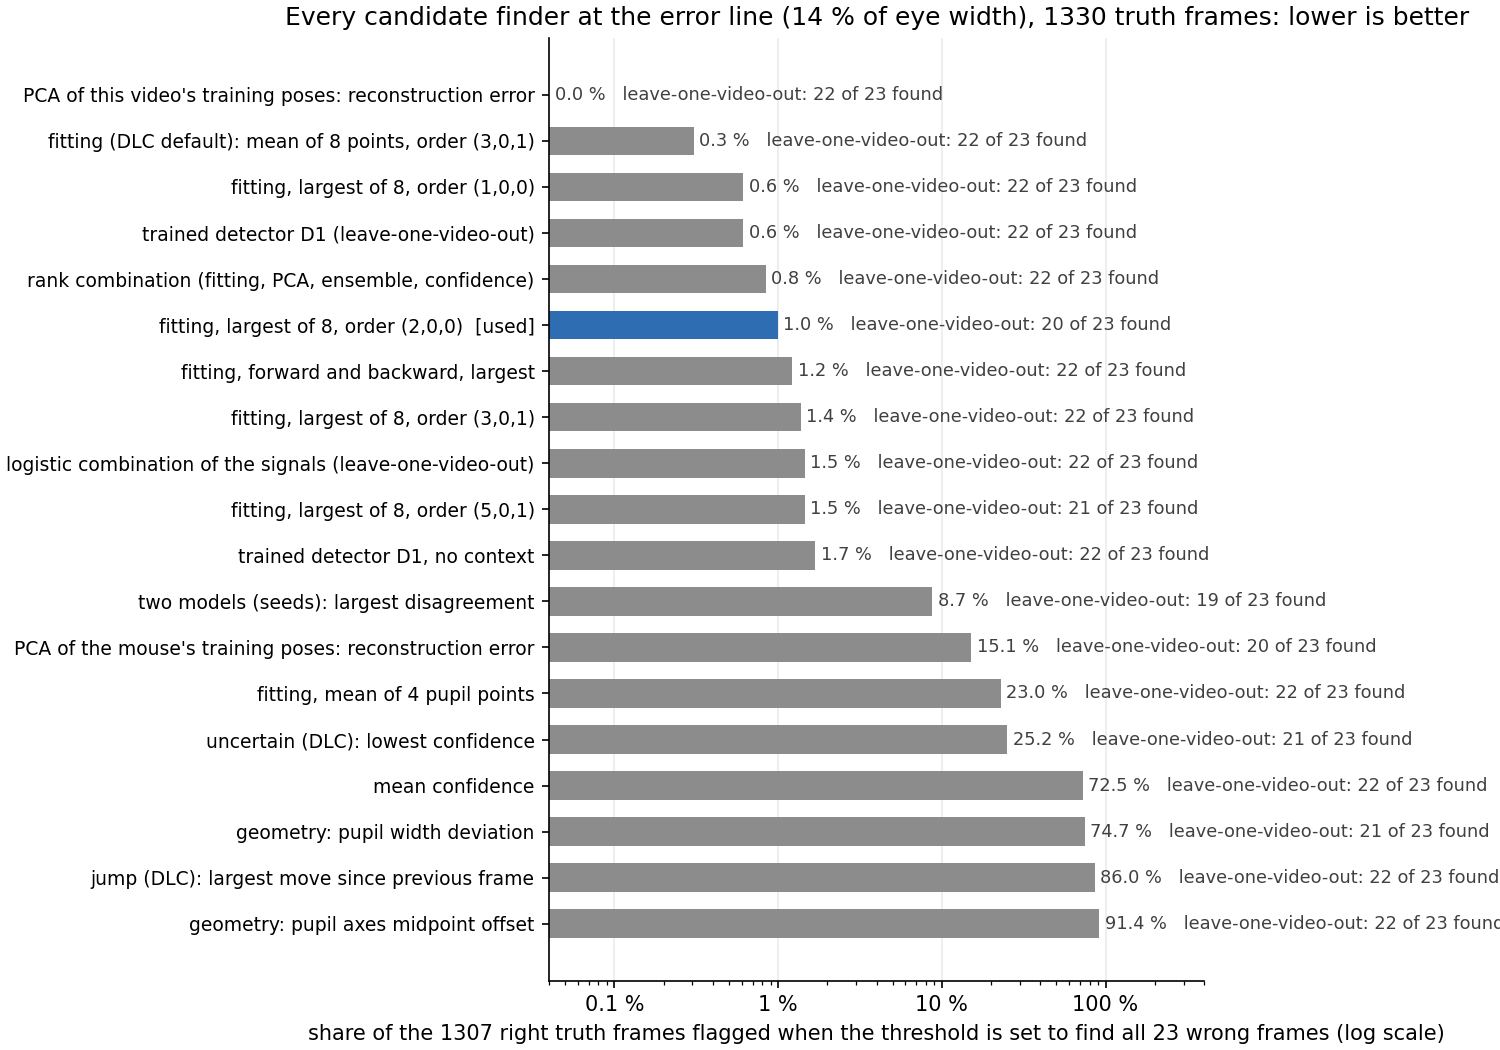
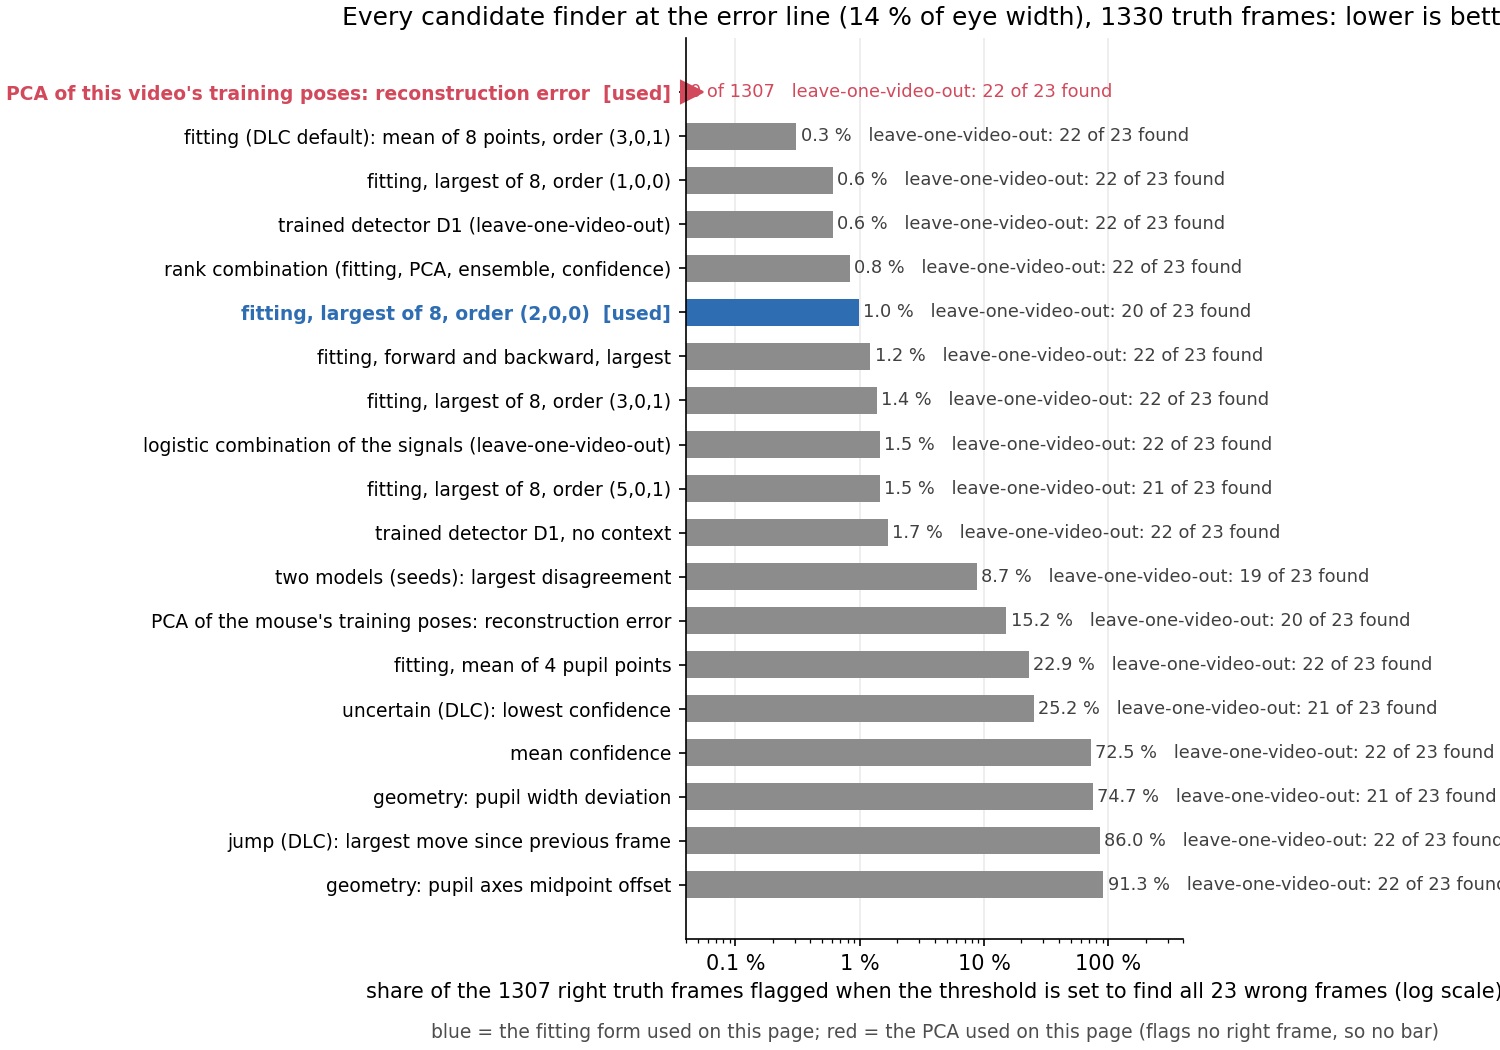
Figure 9-3: mark the PCA row as used as well

diff --git a/report/index.html b/report/index.html
@@ -78,7 +78,7 @@ math[display="block"]{margin:10px 0 6px;text-align:left;overflow-x:auto;max-widt
 
 <header>
   <h1><span lang="zh">小鼠眼睛关键点追踪：做了什么，结果是什么</span><span lang="en">Mouse eye keypoint tracking: what was done and what came out</span></h1>
-  <p class="muted small">Zhiheng Li (University of Minnesota), Kaiwen Sheng (Stanford) · <span lang="zh">页面生成时间</span><span lang="en">page built</span> 2026-10-31 14:06 · <a href="https://github.com/ZhihengLi0/mouse-behavior-tracking">GitHub: ZhihengLi0/mouse-behavior-tracking</a></p>
+  <p class="muted small">Zhiheng Li (University of Minnesota), Kaiwen Sheng (Stanford) · <span lang="zh">页面生成时间</span><span lang="en">page built</span> 2026-10-31 14:08 · <a href="https://github.com/ZhihengLi0/mouse-behavior-tracking">GitHub: ZhihengLi0/mouse-behavior-tracking</a></p>
 
   <div class="text" lang="zh">
     <p><b>任务：</b>用 DeepLabCut 在小鼠眼睛视频的每一帧上找 8 个点：瞳孔上、下、左、右，上眼睑、下眼睑，鼻侧眼角、颞侧眼角。由这 8 个点得到瞳孔大小、眼睛睁开程度和眨眼，之后与脑记录对齐。</p>
@@ -1117,8 +1117,8 @@ math[display="block"]{margin:10px 0 6px;text-align:left;overflow-x:auto;max-widt
   </div>
   <figure>
     <div class="figbox wide"><img src="assets/fig_finders_all_signals.png" alt="Every candidate finder at the error line: share of right truth frames flagged when all 23 wrong frames are found"></div>
-    <figcaption lang="zh"><span class="tag">图 9-3：</span>比过的每一种信号，阈值定到刚好找全 23 帧错帧时，1307 帧对的帧里被标出的比例（对数刻度），越靠左越好；右侧文字是轮流留出一个视频、用其余 18 个定阈值时找到的错帧数。蓝 = 本页用的 fitting 形式。PCA 一帧都不误标，所以没有柱子。</figcaption>
-    <figcaption lang="en"><span class="tag">Figure 9-3:</span>Every signal compared: the share of the 1307 right truth frames flagged when its threshold is set to find all 23 wrong frames (log scale), further left is better; the text gives the wrong frames found when each video is held out in turn and the threshold set on the other 18. Blue = the fitting form used on this page. The PCA flags no right frame, hence no bar.</figcaption>
+    <figcaption lang="zh"><span class="tag">图 9-3：</span>比过的每一种信号，阈值定到刚好找全 23 帧错帧时，1307 帧对的帧里被标出的比例（对数刻度），越靠左越好；右侧文字是轮流留出一个视频、用其余 18 个定阈值时找到的错帧数。蓝 = 本页用的 fitting 形式，红 = 本页用的 PCA，它一帧都不误标，所以没有柱子，只有一个标记。</figcaption>
+    <figcaption lang="en"><span class="tag">Figure 9-3:</span>Every signal compared: the share of the 1307 right truth frames flagged when its threshold is set to find all 23 wrong frames (log scale), further left is better; the text gives the wrong frames found when each video is held out in turn and the threshold set on the other 18. Blue = the fitting form used on this page, red = the PCA used on this page; it flags no right frame, so it has a marker instead of a bar.</figcaption>
   </figure>
   <figure>
     <div class="figbox wide"><img src="assets/fig_finders_share.png" alt="Share of every frame flagged by fitting and by the PCA, per video"></div>

diff --git a/report/template.html b/report/template.html
@@ -1009,8 +1009,8 @@ math[display="block"]{margin:10px 0 6px;text-align:left;overflow-x:auto;max-widt
   </div>
   <figure>
     <div class="figbox wide"><img src="assets/fig_finders_all_signals.png" alt="Every candidate finder at the error line: share of right truth frames flagged when all 23 wrong frames are found"></div>
-    <figcaption lang="zh"><span class="tag">图 9-3：</span>比过的每一种信号，阈值定到刚好找全 23 帧错帧时，1307 帧对的帧里被标出的比例（对数刻度），越靠左越好；右侧文字是轮流留出一个视频、用其余 18 个定阈值时找到的错帧数。蓝 = 本页用的 fitting 形式。PCA 一帧都不误标，所以没有柱子。</figcaption>
-    <figcaption lang="en"><span class="tag">Figure 9-3:</span>Every signal compared: the share of the 1307 right truth frames flagged when its threshold is set to find all 23 wrong frames (log scale), further left is better; the text gives the wrong frames found when each video is held out in turn and the threshold set on the other 18. Blue = the fitting form used on this page. The PCA flags no right frame, hence no bar.</figcaption>
+    <figcaption lang="zh"><span class="tag">图 9-3：</span>比过的每一种信号，阈值定到刚好找全 23 帧错帧时，1307 帧对的帧里被标出的比例（对数刻度），越靠左越好；右侧文字是轮流留出一个视频、用其余 18 个定阈值时找到的错帧数。蓝 = 本页用的 fitting 形式，红 = 本页用的 PCA，它一帧都不误标，所以没有柱子，只有一个标记。</figcaption>
+    <figcaption lang="en"><span class="tag">Figure 9-3:</span>Every signal compared: the share of the 1307 right truth frames flagged when its threshold is set to find all 23 wrong frames (log scale), further left is better; the text gives the wrong frames found when each video is held out in turn and the threshold set on the other 18. Blue = the fitting form used on this page, red = the PCA used on this page; it flags no right frame, so it has a marker instead of a bar.</figcaption>
   </figure>
   <figure>
     <div class="figbox wide"><img src="assets/fig_finders_share.png" alt="Share of every frame flagged by fitting and by the PCA, per video"></div>

diff --git a/report/index_en.html b/report/index_en.html
@@ -75,7 +75,7 @@ math[display="block"]{margin:10px 0 6px;text-align:left;overflow-x:auto;max-widt
 
 <header>
   <h1><span lang="en">Mouse eye keypoint tracking: what was done and what came out</span></h1>
-  <p class="muted small">Zhiheng Li (University of Minnesota), Kaiwen Sheng (Stanford) · <span lang="en">page built</span> 2026-10-31 14:06 · <a href="https://github.com/ZhihengLi0/mouse-behavior-tracking">GitHub: ZhihengLi0/mouse-behavior-tracking</a></p>
+  <p class="muted small">Zhiheng Li (University of Minnesota), Kaiwen Sheng (Stanford) · <span lang="en">page built</span> 2026-10-31 14:08 · <a href="https://github.com/ZhihengLi0/mouse-behavior-tracking">GitHub: ZhihengLi0/mouse-behavior-tracking</a></p>
 
   
   <div class="text" lang="en">
@@ -864,7 +864,7 @@ math[display="block"]{margin:10px 0 6px;text-align:left;overflow-x:auto;max-widt
   <figure>
     <div class="figbox wide"><img src="assets/fig_finders_all_signals.png" alt="Every candidate finder at the error line: share of right truth frames flagged when all 23 wrong frames are found"></div>
     
-    <figcaption lang="en"><span class="tag">Figure 9-3:</span>Every signal compared: the share of the 1307 right truth frames flagged when its threshold is set to find all 23 wrong frames (log scale), further left is better; the text gives the wrong frames found when each video is held out in turn and the threshold set on the other 18. Blue = the fitting form used on this page. The PCA flags no right frame, hence no bar.</figcaption>
+    <figcaption lang="en"><span class="tag">Figure 9-3:</span>Every signal compared: the share of the 1307 right truth frames flagged when its threshold is set to find all 23 wrong frames (log scale), further left is better; the text gives the wrong frames found when each video is held out in turn and the threshold set on the other 18. Blue = the fitting form used on this page, red = the PCA used on this page; it flags no right frame, so it has a marker instead of a bar.</figcaption>
   </figure>
   <figure>
     <div class="figbox wide"><img src="assets/fig_finders_share.png" alt="Share of every frame flagged by fitting and by the PCA, per video"></div>

diff --git a/v2_new_pupil_top_video_scaling/scripts/finder_comparison.py b/v2_new_pupil_top_video_scaling/scripts/finder_comparison.py
@@ -98,12 +98,22 @@ def fig_signals(T):
     T = T.iloc[::-1].reset_index(drop=True)
     fig, ax = plt.subplots(figsize=(10, 7), constrained_layout=True)
     x = 100 * T.good_flagged_share.clip(lower=0.0004)
+    used_pca = T.signal.str.startswith("PCA of this video")
     cols = ["#2f6db3" if "[used]" in s else "#d1495b" if s.startswith("PCA of this video") else "0.55" for s in T.signal]
     ax.barh(T.index, x, color=cols, height=0.62)
     for i, r in T.iterrows():
-        ax.text(x[i] * 1.08, i, f"{100 * r.good_flagged_share:.1f} %   leave-one-video-out: {r.lovo_caught} of 23 found", va="center", fontsize=8.5, color="0.25")
+        if used_pca[i]:
+            ax.plot(0.045, i, marker=">", color="#d1495b", ms=11, clip_on=False)
+            ax.text(x[i] * 1.08, i, f"0 of 1307   leave-one-video-out: {r.lovo_caught} of 23 found", va="center", fontsize=8.5, color="#d1495b")
+        else:
+            ax.text(x[i] * 1.08, i, f"{100 * r.good_flagged_share:.1f} %   leave-one-video-out: {r.lovo_caught} of 23 found", va="center", fontsize=8.5, color="0.25")
     ax.set_yticks(T.index)
-    ax.set_yticklabels(T.signal, fontsize=9)
+    ax.set_yticklabels([s + "  [used]" if u else s for s, u in zip(T.signal, used_pca)], fontsize=9)
+    for lab in ax.get_yticklabels():
+        if "[used]" in lab.get_text():
+            lab.set_color("#d1495b" if lab.get_text().startswith("PCA") else "#2f6db3")
+            lab.set_fontweight("bold")
+    ax.text(0.5, -0.11, "blue = the fitting form used on this page; red = the PCA used on this page (flags no right frame, so no bar)", transform=ax.transAxes, ha="center", fontsize=9, color="0.3")
     ax.set_xscale("log")
     ax.set_xlim(0.04, 400)
     ax.set_xticks([0.1, 1, 10, 100])
